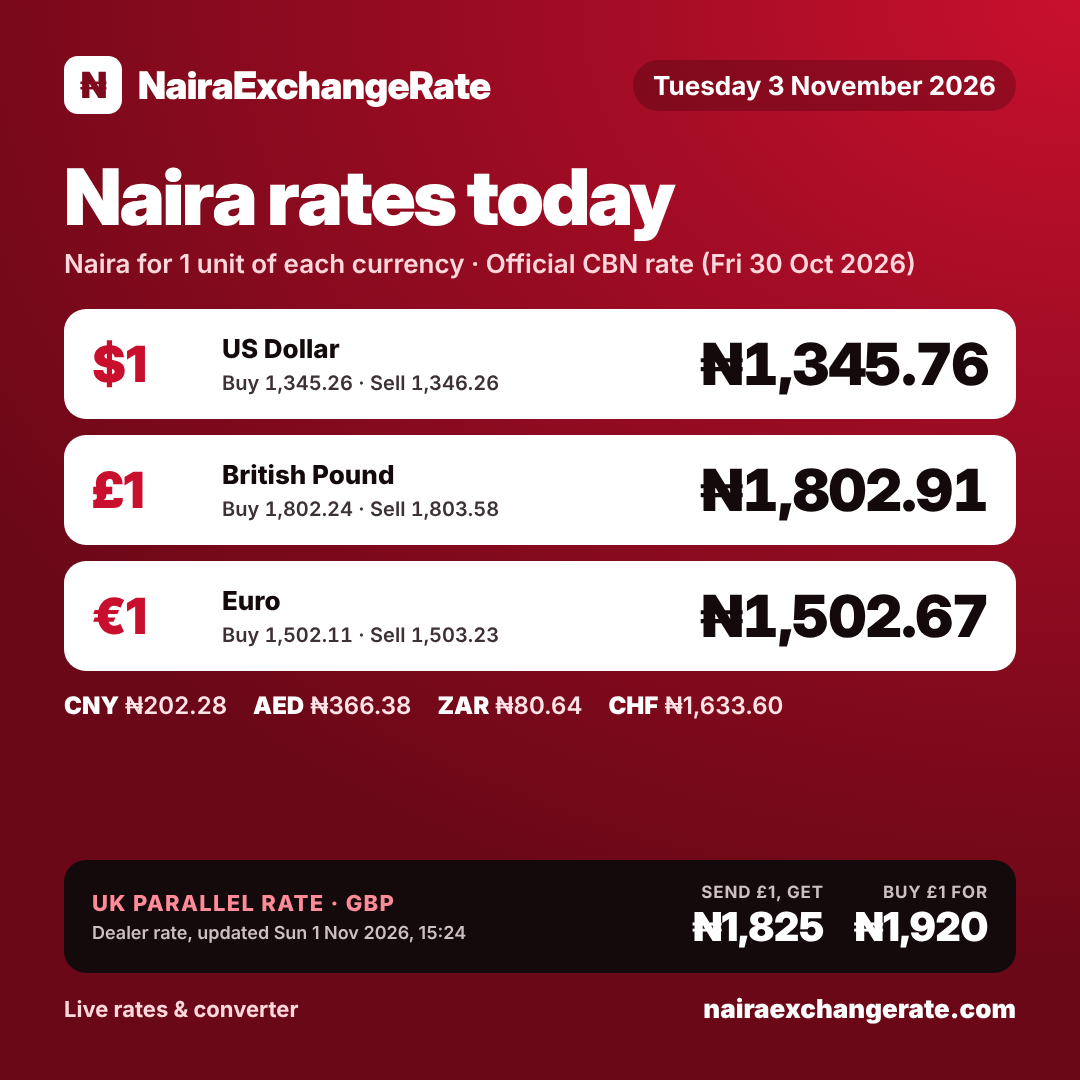
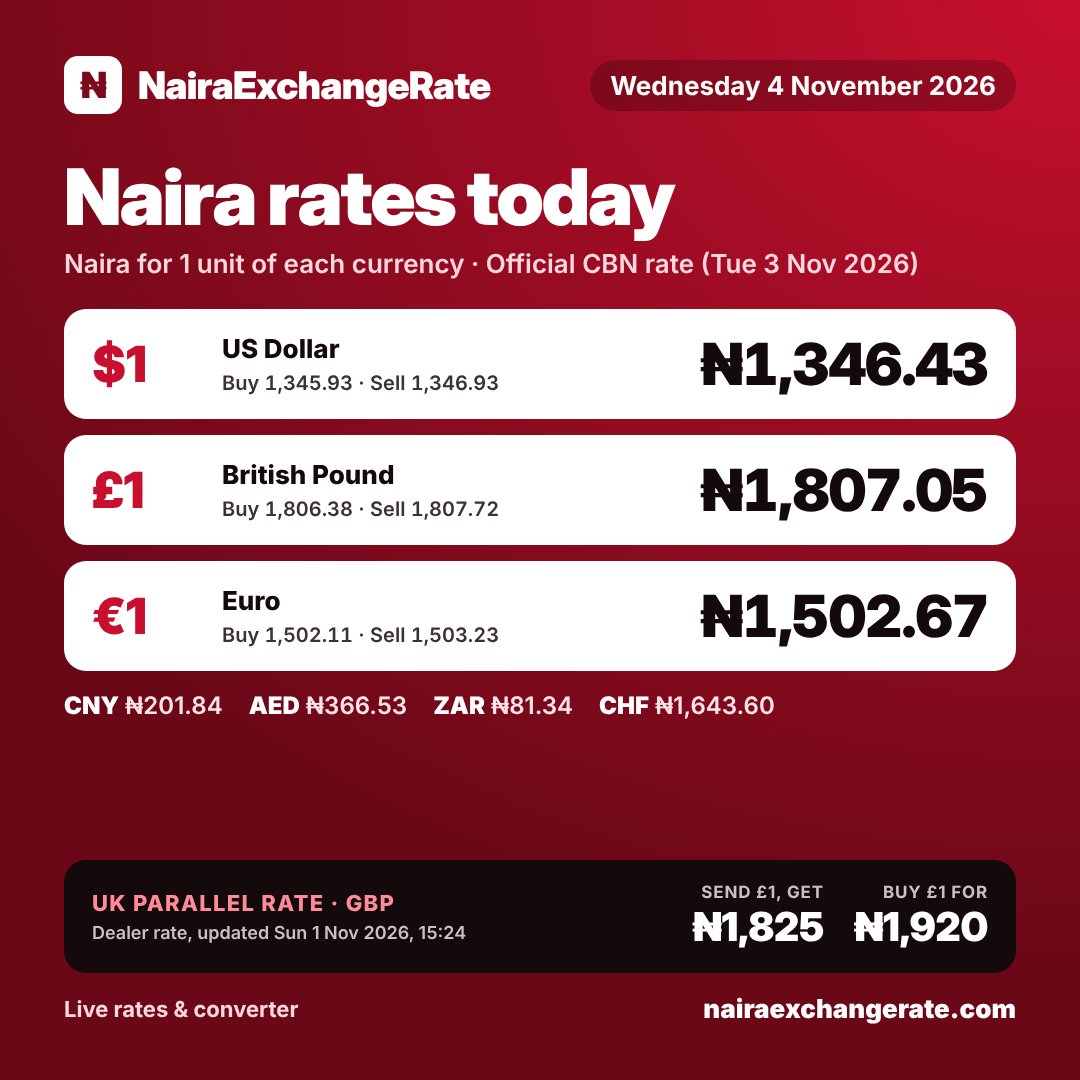
CBN rates 2026-11-03
Claude-Session: https://claude.ai/code/session_01NfXuJteGPkhS31YwYKmcHs

diff --git a/index.html b/index.html
@@ -284,17 +284,17 @@ footer .wrap{padding-block:22px 34px;font-size:.84rem;color:var(--muted);display
     }
   ],
   "cbn": {
-    "date": "2026-10-30",
+    "date": "2026-11-03",
     "rates": {
       "usd": {
-        "buy": 1345.2565,
-        "middle": 1345.7565,
-        "sell": 1346.2565
+        "buy": 1345.9348,
+        "middle": 1346.4348,
+        "sell": 1346.9348
       },
       "gbp": {
-        "buy": 1802.2401,
-        "middle": 1802.91,
-        "sell": 1803.5798
+        "buy": 1806.3791,
+        "middle": 1807.0501,
+        "sell": 1807.7212
       },
       "eur": {
         "buy": 1502.1134,
@@ -302,24 +302,24 @@ footer .wrap{padding-block:22px 34px;font-size:.84rem;color:var(--muted);display
         "sell": 1503.23
       },
       "chf": {
-        "buy": 1632.9892,
-        "middle": 1633.5961,
-        "sell": 1634.2031
+        "buy": 1642.9868,
+        "middle": 1643.5972,
+        "sell": 1644.2075
       },
       "cny": {
-        "buy": 202.203,
-        "middle": 202.2781,
-        "sell": 202.3533
+        "buy": 201.7682,
+        "middle": 201.8431,
+        "sell": 201.9181
       },
       "jpy": {
-        "buy": 8.5511,
-        "middle": 8.5543,
-        "sell": 8.5574
+        "buy": 8.5121,
+        "middle": 8.5153,
+        "sell": 8.5184
       },
       "aed": {
-        "buy": 366.2455,
-        "middle": 366.3817,
-        "sell": 366.5178
+        "buy": 366.3903,
+        "middle": 366.5264,
+        "sell": 366.6625
       },
       "sar": {
         "buy": 358.4483,
@@ -327,14 +327,14 @@ footer .wrap{padding-block:22px 34px;font-size:.84rem;color:var(--muted);display
         "sell": 358.7148
       },
       "zar": {
-        "buy": 80.6074,
-        "middle": 80.6373,
-        "sell": 80.6673
+        "buy": 81.3111,
+        "middle": 81.3413,
+        "sell": 81.3715
       },
       "xof": {
-        "buy": 2.2645,
-        "middle": 2.2745,
-        "sell": 2.2845
+        "buy": 2.2839,
+        "middle": 2.2939,
+        "sell": 2.3039
       }
     }
   },
